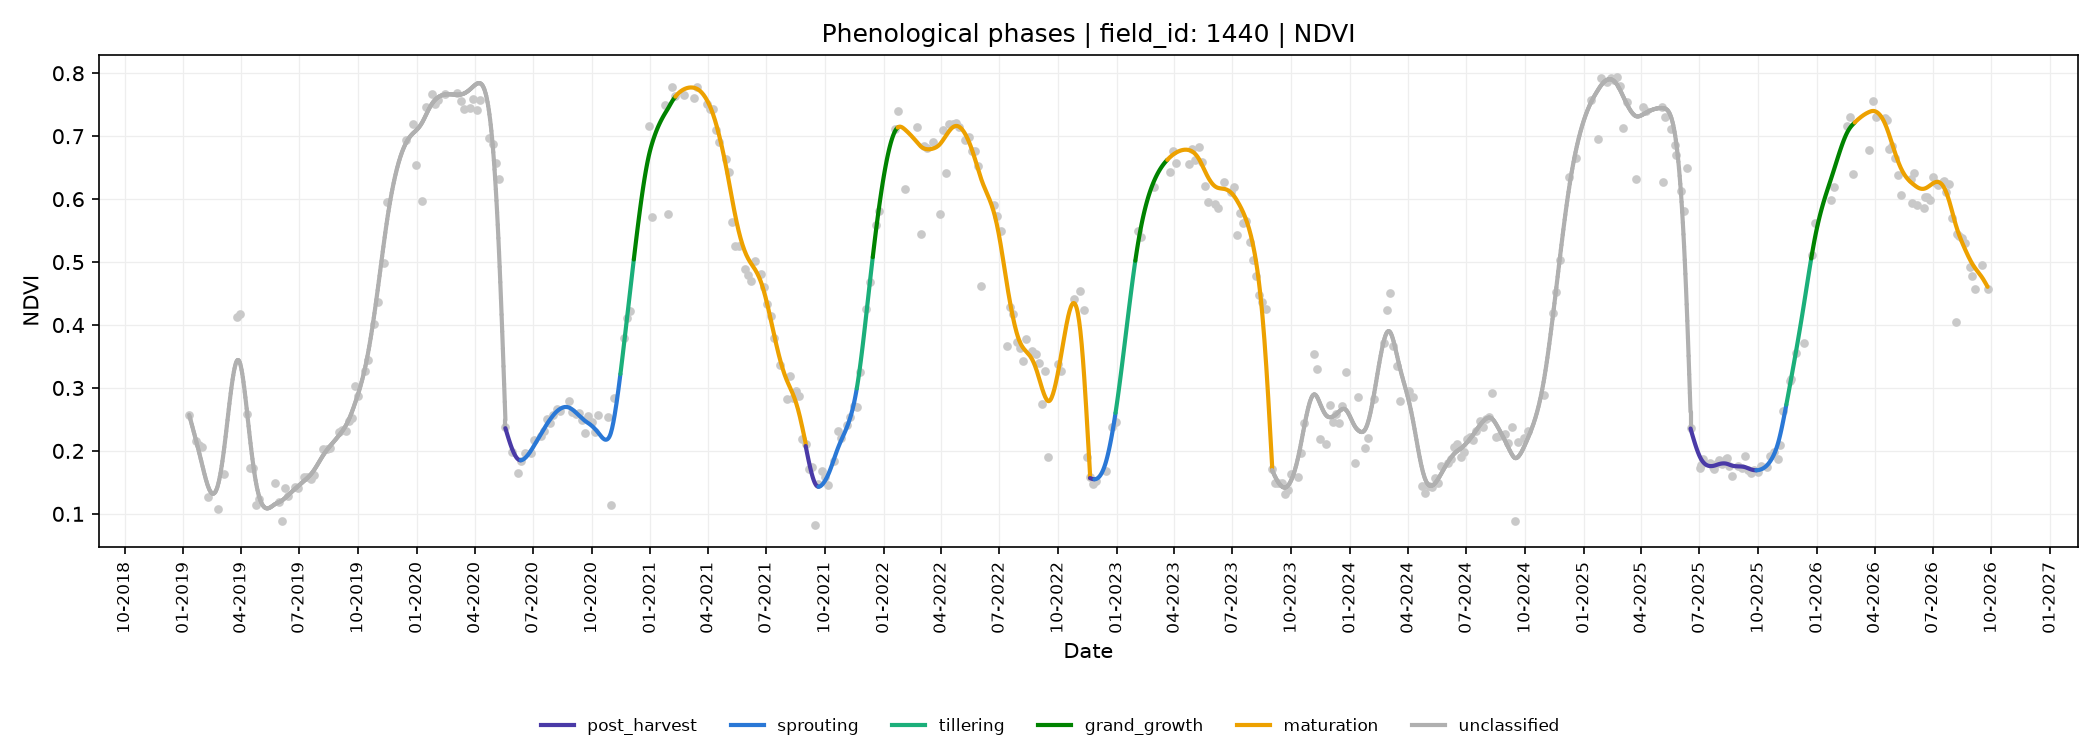
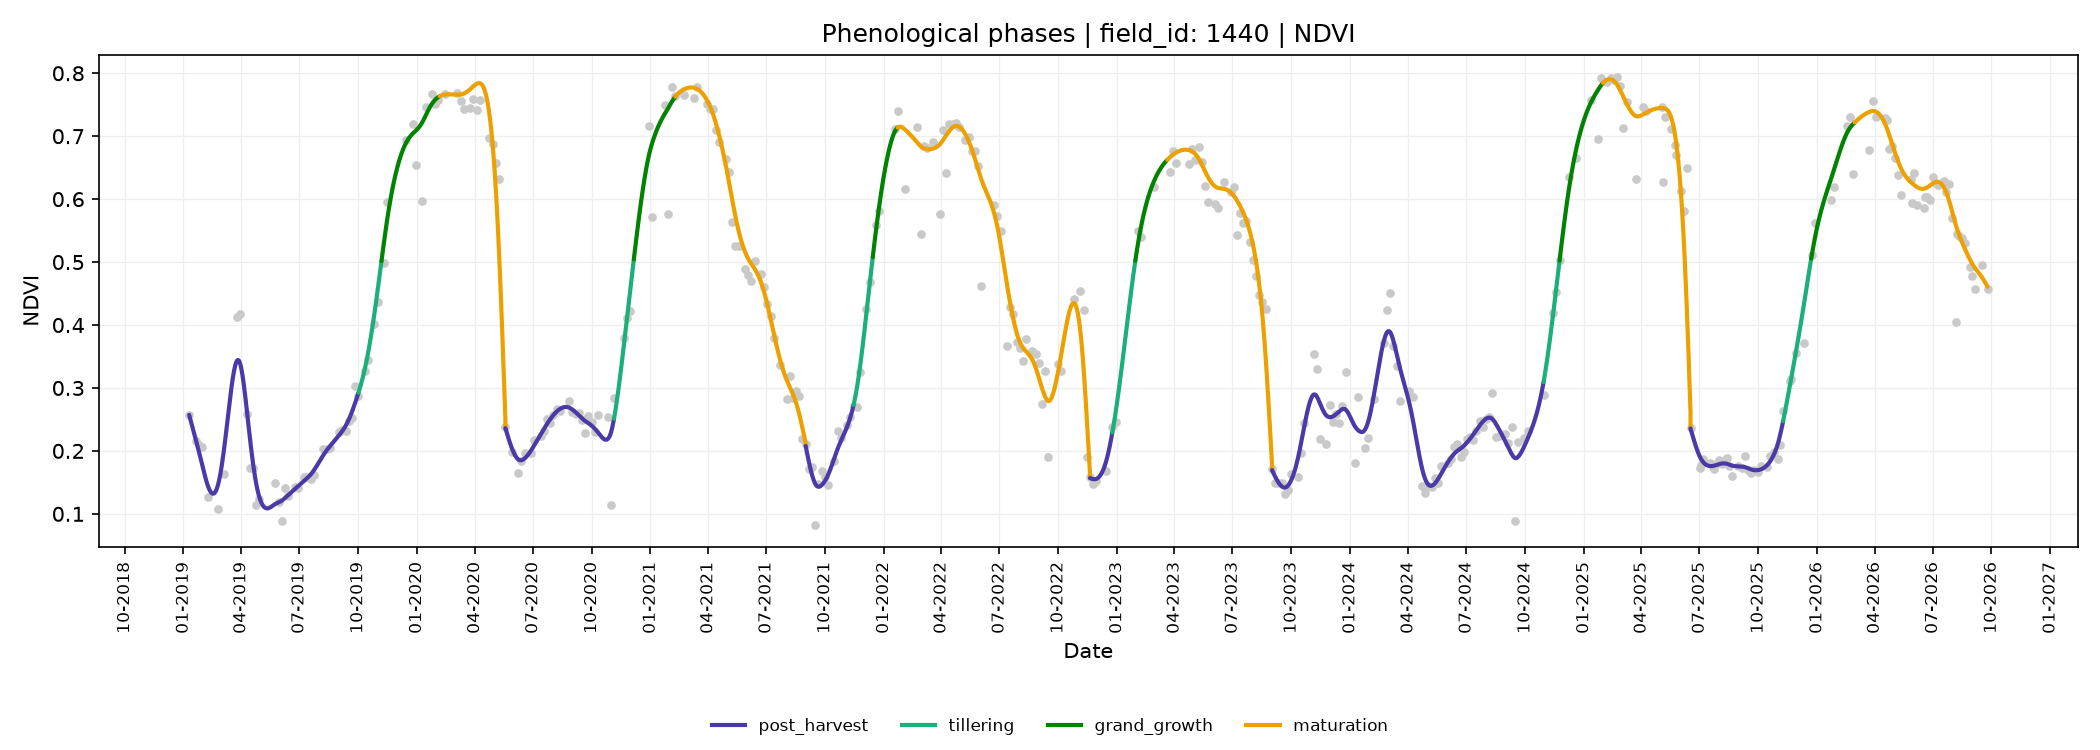
Merge straw and bare soil into post_harvest and read its end backwards
Four phases instead of five: sprouting happened under the trash blanket where
the satellite cannot see it, so it no longer gets one of its own, and
post_harvest is now exactly the stretch the surface classification calls straw
or bare soil.

The end of that stretch is the last bare image before the canopy closes rather
than the first green one after the cut. During a renewal the surface flickers
for months, so reading forwards ended the phase at the first flicker and left
a year of fallow inside tillering, which the old guard then discarded as
unclassified along with the real crop that followed. Reading backwards puts
the fallow in post_harvest and the guard is gone: 13 of 14 cycles are now
classified, against 11 before, and tillering tightens from 16-105 days to
20-65.

diff --git a/src/cane_cycle/phenology.py b/src/cane_cycle/phenology.py
@@ -2,15 +2,28 @@
 
 Five phases run from one harvest to the next:
 
-===============  ==========================  ==============================
-Phase            Starts at                   What the crop is doing
-===============  ==========================  ==============================
-`post_harvest`   the harvest                 cut; nothing has emerged yet
-`sprouting`      the trough of the curve     shoots coming up under the straw
-`tillering`      the ground stops being bare shoots multiplying and covering
-`grand_growth`   the canopy closes           stalks elongating
-`maturation`     growth stops                sugar accumulating; then waiting
-===============  ==========================  ==============================
+===============  ===========================  =============================
+Phase            Starts at                    What the crop is doing
+===============  ===========================  =============================
+`post_harvest`   the harvest                  cut; shoots coming up under
+                                              the straw, not yet visible
+`tillering`      the ground stops being bare  shoots multiplying, covering
+`grand_growth`   the canopy closes            stalks elongating
+`maturation`     growth stops                 sugar accumulating, then
+                                              waiting for the mill
+===============  ===========================  =============================
+
+`post_harvest` is the stretch the surface classification calls straw or bare
+soil, the two merged into one. Sprouting happens inside it - the ratoon starts
+within days of the cut - but under the trash blanket, where the satellite
+cannot see it, so it gets no phase of its own.
+
+The end of that stretch is read *backwards*, as the last bare image before the
+canopy closes, not forwards as the first green one. In a normal cycle the two
+agree, since the bare period is one unbroken run. In a renewal they do not: the
+surface flickers for months while the field is worked, so reading forwards ends
+the phase at the first flicker and leaves a year of fallow inside `tillering`.
+Read backwards, the fallow lands in `post_harvest`, which is what it is.
 
 Only one of the eleven stages of the Brazilian scale (Barbosa, 2023) can be
 seen from orbit, and it is the one this uses: P3, "final do perfilhamento",
@@ -50,13 +63,8 @@ CLOSURE_THRESHOLD = 0.50
 # Index read at the top of the curve, where the first one saturates.
 GROWTH_INDEX = "EVI"
 
-# A canopy that takes longer than this to close did not belong to this cycle:
-# the field was in renewal and what finally closed was the crop planted after
-# it. Normal cycles on these fields close between days 61 and 203.
-MAX_CLOSURE_DAYS = 250
-
 # Phase names, in the order they occur.
-PHASES = ["post_harvest", "sprouting", "tillering", "grand_growth", "maturation"]
+PHASES = ["post_harvest", "tillering", "grand_growth", "maturation"]
 
 
 def phase_landmarks(
@@ -65,9 +73,8 @@ def phase_landmarks(
     shape_index=SHAPE_INDEX,
     growth_index=GROWTH_INDEX,
     closure_threshold=CLOSURE_THRESHOLD,
-    max_closure_days=MAX_CLOSURE_DAYS,
 ):
-    """Find the four dates that split each cycle into five phases.
+    """Find the three dates that split each cycle into four phases.
 
     Parameters
     ----------
@@ -81,16 +88,13 @@ def phase_landmarks(
         Index whose peak marks the end of growth.
     closure_threshold : float, default CLOSURE_THRESHOLD
         Value of `shape_index` at which the canopy counts as closed.
-    max_closure_days : int, default MAX_CLOSURE_DAYS
-        A cycle whose canopy takes longer than this to close is a renewal and
-        is left unclassified.
 
     Returns
     -------
     pandas.DataFrame
-        One row per cycle with `cut`, `trough`, `bare_end`, `closure`,
-        `cessation`, `next_cut`, and `classified`, which is False for a cycle
-        whose canopy never closed or whose landmarks came out of order.
+        One row per cycle with `cut`, `bare_end`, `closure`, `cessation`,
+        `next_cut`, and `classified`, which is False for a cycle whose canopy
+        never closed or whose landmarks came out of order.
     """
     shape = smooth_cycles_v2(df, seasons, index=shape_index)
     growth = smooth_cycles_v2(df, seasons, index=growth_index)
@@ -106,27 +110,18 @@ def phase_landmarks(
         days = curve["date"].to_numpy()
         values = curve[f"{shape_index}_smooth"].to_numpy()
 
-        # The bare period ends at the first of two consecutive non-bare images.
-        observations = df[
-            (df["field_id"] == cycle.field_id)
-            & df["date"].between(cycle.start_date, cycle.end_date)
-        ].sort_values("date").reset_index(drop=True)
-        bare = observations["surface"].isin([SURFACE_STRAW, SURFACE_SOIL]).to_numpy()
-        bare_end = next(
-            (
-                observations["date"][i]
-                for i in range(len(bare) - 1)
-                if not bare[i] and not bare[i + 1]
-            ),
-            None,
-        )
-
-        # The trough is the lowest point before the ground greens over.
-        limit = int(np.searchsorted(days, np.datetime64(bare_end))) if bare_end else 2
-        trough = days[int(np.argmin(values[: max(limit, 2)]))]
-
         reached = np.flatnonzero(values >= closure_threshold)
         closure = days[reached[0]] if len(reached) else None
+
+        # The bare period ends at the last bare image before the canopy closes.
+        bare = df[
+            (df["field_id"] == cycle.field_id)
+            & df["date"].between(cycle.start_date, cycle.end_date)
+            & df["surface"].isin([SURFACE_STRAW, SURFACE_SOIL])
+        ]
+        if closure is not None:
+            bare = bare[bare["date"] < closure]
+        bare_end = bare["date"].max() if len(bare) else None
 
         peak = growth[
             (growth["field_id"] == cycle.field_id) & (growth["season"] == cycle.season)
@@ -137,19 +132,15 @@ def phase_landmarks(
             else None
         )
 
-        marks = [cycle.start_date, trough, bare_end, closure, cessation, cycle.end_date]
+        marks = [cycle.start_date, bare_end, closure, cessation, cycle.end_date]
         classified = all(m is not None for m in marks) and all(
             pd.Timestamp(a) <= pd.Timestamp(b) for a, b in zip(marks, marks[1:])
         )
-        if classified:
-            closed_after = (pd.Timestamp(closure) - cycle.start_date).days
-            classified = closed_after <= max_closure_days
         rows.append(
             {
                 "field_id": cycle.field_id,
                 "season": cycle.season,
                 "cut": cycle.start_date,
-                "trough": trough,
                 "bare_end": bare_end,
                 "closure": closure,
                 "cessation": cessation,
@@ -166,7 +157,6 @@ def add_phenology(
     shape_index=SHAPE_INDEX,
     growth_index=GROWTH_INDEX,
     closure_threshold=CLOSURE_THRESHOLD,
-    max_closure_days=MAX_CLOSURE_DAYS,
 ):
     """Return the daily smoothed curve with the phase of every day.
 
@@ -178,11 +168,11 @@ def add_phenology(
     """
     curve = smooth_cycles_v2(df, seasons, index=shape_index)
     landmarks = phase_landmarks(
-        df, seasons, shape_index, growth_index, closure_threshold, max_closure_days
+        df, seasons, shape_index, growth_index, closure_threshold
     )
 
     curve = curve.merge(landmarks, on=["field_id", "season"], how="left")
-    boundaries = ["trough", "bare_end", "closure", "cessation"]
+    boundaries = ["bare_end", "closure", "cessation"]
     # Each day takes the last phase whose start it has reached.
     phase = pd.Series(PHASES[0], index=curve.index, dtype="object")
     for name, boundary in zip(PHASES[1:], boundaries):
@@ -194,7 +184,7 @@ def add_phenology(
 
 def phase_durations(landmarks):
     """Return the length of each phase, in days, for every classified cycle."""
-    marks = ["cut", "trough", "bare_end", "closure", "cessation", "next_cut"]
+    marks = ["cut", "bare_end", "closure", "cessation", "next_cut"]
     out = landmarks[landmarks["classified"]][["field_id", "season"]].copy()
     for name, start, end in zip(PHASES, marks, marks[1:]):
         out[name] = (

diff --git a/src/cane_cycle/plotting.py b/src/cane_cycle/plotting.py
@@ -43,7 +43,6 @@ POINT_COLOR_CLEAR = "#6b6b6b"
 # unrelated categories.
 PHASE_COLORS = {
     "post_harvest": "#4a3aa7",
-    "sprouting": "#2a78d6",
     "tillering": "#1baf7a",
     "grand_growth": "#008300",
     "maturation": "#eda100",
